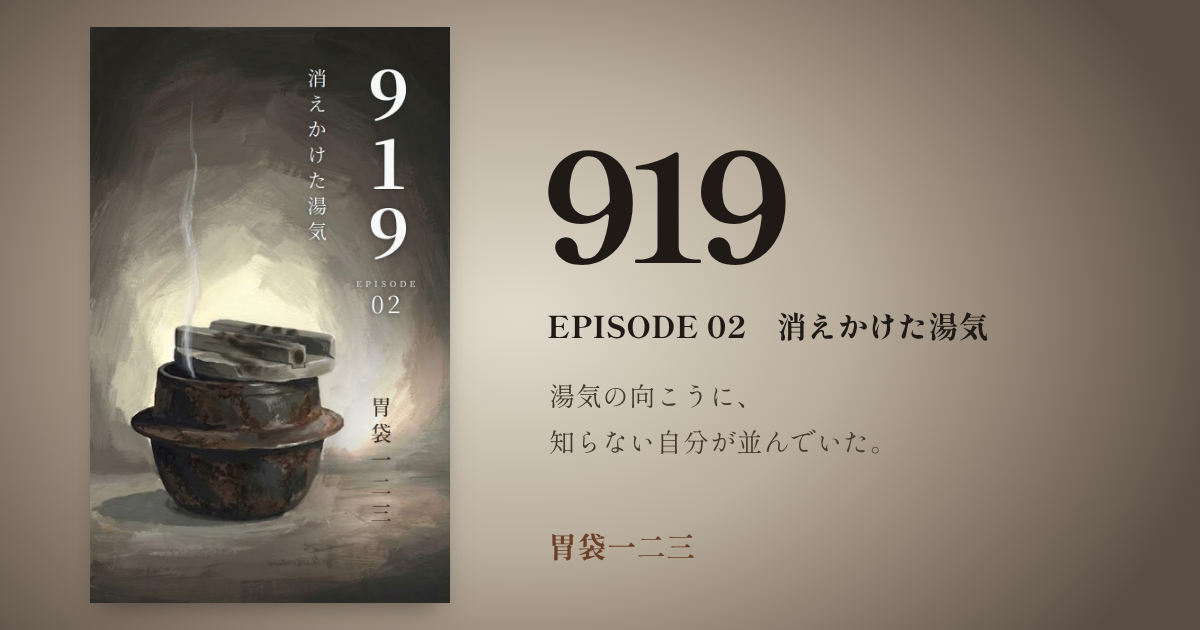
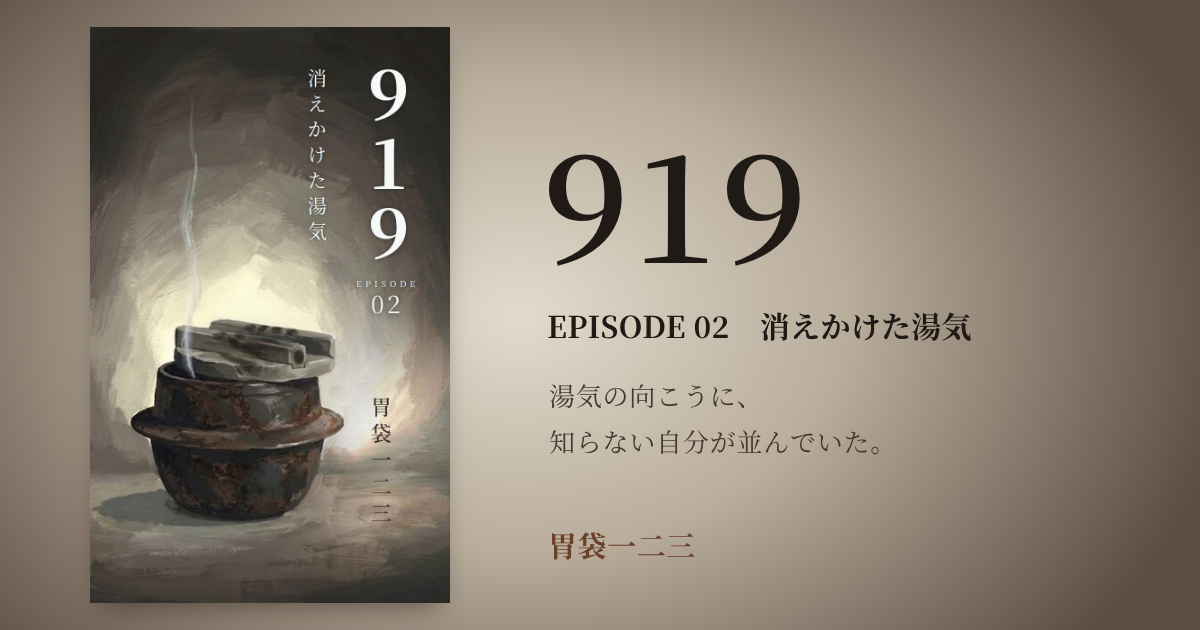
書体を表紙と同じ Noto Serif JP にそろえる（入口・読むページ・共有カード二枚）、sw.jsの版を上げる
Claude-Session: https://claude.ai/code/session_01ELgwayoFmAThpzA7ixXM2Y

diff --git a/index.html b/index.html
@@ -27,13 +27,13 @@
 <meta name="description" content="胃袋一二三のSF小説シリーズ『919』。食べものが足りなくなりつつある町の、二人の食卓の話。">
 <link rel="preconnect" href="https://fonts.googleapis.com">
 <link rel="preconnect" href="https://fonts.gstatic.com" crossorigin>
-<link href="https://fonts.googleapis.com/css2?family=DotGothic16&family=Shippori+Mincho+B1:wght@400;600;800&display=swap" rel="stylesheet">
+<link href="https://fonts.googleapis.com/css2?family=DotGothic16&family=Noto+Serif+JP:wght@400;600;700&display=swap" rel="stylesheet">
 <style>
 :root{
   --bg1:#DCE3E3; --bg2:#B8C4C6; --ink:#1D2528; --soft:#56646A; --line:rgba(29,37,40,.18);
   --paper:#F6F6F1; --paper-ink:#2A2F33; --print:#2F6670; --dot:#47567E; --glow:rgba(255,255,255,.85);
   --shelf:#C9D1D3; --shelf-edge:#9AA6AA; --shadow:rgba(20,30,34,.28);
-  --mincho:"Shippori Mincho B1","Hiragino Mincho ProN","Yu Mincho","Noto Serif JP",serif;
+  --mincho:"Noto Serif JP","Hiragino Mincho ProN","Yu Mincho",serif;
   --gothic:"Zen Kaku Gothic New","Hiragino Sans","Yu Gothic","Noto Sans JP",sans-serif;
   --dotf:"DotGothic16","Zen Kaku Gothic New",monospace;
   color-scheme:light;
@@ -64,7 +64,7 @@ button{font:inherit;color:inherit}
 
 /* 題字 */
 .head{display:flex;align-items:flex-end;justify-content:space-between;gap:16px;margin-bottom:34px}
-.head h1{margin:0 -.22em 0 0;font-family:var(--mincho);font-weight:700;font-size:clamp(64px,13vw,112px);line-height:.9;letter-spacing:.22em}
+.head h1{margin:0 -.22em 0 0;font-family:var(--mincho);font-weight:600;font-size:clamp(64px,13vw,112px);line-height:.9;letter-spacing:.22em}
 .head .by{font-family:var(--mincho);font-size:15px;letter-spacing:.3em;color:var(--soft);margin:0 0 8px}
 .lead{margin:0 0 30px;font-family:var(--mincho);font-size:15px;line-height:2;color:var(--soft);max-width:34em}
 .lead .nb{white-space:nowrap}
@@ -115,7 +115,7 @@ button{font:inherit;color:inherit}
 .ticket .top{display:flex;justify-content:space-between;font-family:var(--dotf);font-size:13px;letter-spacing:.14em;color:#6F7A7E;border-bottom:1px dashed #C6CBC8;padding-bottom:10px;margin-bottom:18px}
 .ticket .top .num{color:var(--dot);font-size:15px}
 .ticket .series{font-family:var(--dotf);font-size:13px;letter-spacing:.2em;color:var(--print);margin:0}
-.ticket h3{margin:4px 0 14px;font-family:var(--mincho);font-weight:800;font-size:28px;letter-spacing:.12em}
+.ticket h3{margin:4px 0 14px;font-family:var(--mincho);font-weight:700;font-size:28px;letter-spacing:.12em}
 .ticket .syn{font-family:var(--mincho);font-size:15px;line-height:2;margin:0 0 14px}
 .ticket .meta{font-family:var(--dotf);font-size:13px;letter-spacing:.1em;color:#6F7A7E;margin:0 0 20px}
 .ticket .acts{display:flex;flex-direction:column;gap:10px}

diff --git a/919.html b/919.html
@@ -27,7 +27,7 @@
 <meta name="description" content="食べものが足りなくなりつつある町で、よしゆきは見知らぬ男から一本の飲みものを渡される。">
 <link rel="preconnect" href="https://fonts.googleapis.com">
 <link rel="preconnect" href="https://fonts.gstatic.com" crossorigin>
-<link href="https://fonts.googleapis.com/css2?family=DotGothic16&family=Shippori+Mincho+B1:wght@400;600;800&display=swap" rel="stylesheet">
+<link href="https://fonts.googleapis.com/css2?family=DotGothic16&family=Noto+Serif+JP:wght@400;600;700&display=swap" rel="stylesheet">
 <style>
   :root{
     --paper:#F1F3EF;
@@ -48,7 +48,7 @@
       radial-gradient(ellipse at 50% 0%, rgba(255,255,255,.18), transparent 60%),
       repeating-linear-gradient(102deg, rgba(0,0,0,.025) 0 2px, transparent 2px 5px);
     color:var(--ink);
-    font-family:"Shippori Mincho B1","Hiragino Mincho ProN","Yu Mincho",YuMincho,"Noto Serif JP","Songti SC",serif;
+    font-family:"Noto Serif JP","Hiragino Mincho ProN","Yu Mincho",YuMincho,"Songti SC",serif;
     overflow:hidden;
     -webkit-text-size-adjust:100%;
   }

diff --git a/919-02.html b/919-02.html
@@ -27,7 +27,7 @@
 <meta name="description" content="食べなくても生きられる体になったよしゆきの前に、子どものころの自分を知る男が現れる。">
 <link rel="preconnect" href="https://fonts.googleapis.com">
 <link rel="preconnect" href="https://fonts.gstatic.com" crossorigin>
-<link href="https://fonts.googleapis.com/css2?family=DotGothic16&family=Shippori+Mincho+B1:wght@400;600;800&display=swap" rel="stylesheet">
+<link href="https://fonts.googleapis.com/css2?family=DotGothic16&family=Noto+Serif+JP:wght@400;600;700&display=swap" rel="stylesheet">
 <style>
   :root{
     --paper:#F1F3EF;
@@ -48,7 +48,7 @@
       radial-gradient(ellipse at 50% 0%, rgba(255,255,255,.18), transparent 60%),
       repeating-linear-gradient(102deg, rgba(0,0,0,.025) 0 2px, transparent 2px 5px);
     color:var(--ink);
-    font-family:"Shippori Mincho B1","Hiragino Mincho ProN","Yu Mincho",YuMincho,"Noto Serif JP","Songti SC",serif;
+    font-family:"Noto Serif JP","Hiragino Mincho ProN","Yu Mincho",YuMincho,"Songti SC",serif;
     overflow:hidden;
     -webkit-text-size-adjust:100%;
   }

diff --git a/sw.js b/sw.js
@@ -1,5 +1,5 @@
 /* 919：電波がなくても読めるようにするしくみ */
-const CACHE = '919-v6';
+const CACHE = '919-v7';
 const FILES = ['./', './index.html', './919.html', './919-cover.jpg', './919-02.html', './919-02-cover.jpg', './manifest.webmanifest',
                './icon-192.png', './icon-512.png', './apple-touch-icon.png', './favicon-32.png'];
 self.addEventListener('install', e => {
